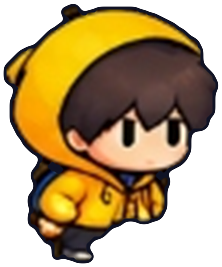
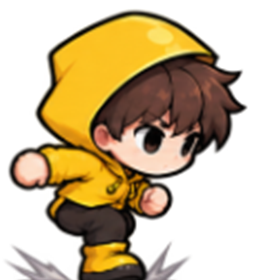
Replace Raincoat Boy with new crisp 8-frame running, jump, fall, and slide sprites

diff --git a/index.html b/index.html
@@ -75,7 +75,7 @@
               <button id="btn-prev-char" class="bs-side-arrow left" type="button" aria-label="이전 캐릭터">◀</button>
 
               <button id="btn-home-char-info" class="bs-podium-btn" type="button" title="캐릭터 능력 및 스킨 보기">
-                <img id="home-hero-img" src="assets/chars/yellow_run_0.png?v=20261121hd9" alt="선택 캐릭터" class="bs-hero-img running-hero" />
+                <img id="home-hero-img" src="assets/chars/yellow_run_0.png?v=20261121hd16" alt="선택 캐릭터" class="bs-hero-img running-hero" />
                 <span class="bs-run-dust d1" aria-hidden="true"></span>
                 <span class="bs-run-dust d2" aria-hidden="true"></span>
                 <div class="bs-podium-ring">
@@ -91,7 +91,7 @@
           <div class="bs-home-actions">
             <button id="btn-home-brawlers" class="bs-brawler-btn" type="button" aria-label="캐릭터 선택">
               <span class="bs-btn-inner">
-                <img id="home-brawler-mini" src="assets/chars/port_yellow.png?v=20261121hd9" alt="" class="bs-mini-avatar" />
+                <img id="home-brawler-mini" src="assets/chars/port_yellow.png?v=20261121hd16" alt="" class="bs-mini-avatar" />
                 <span class="bs-brawler-txt">
                   <span class="bs-brawler-lbl">캐릭터</span>
                   <span id="home-brawler-count" class="bs-brawler-cnt">1 / 5</span>
@@ -184,7 +184,7 @@
 
         <div class="rank-my-card">
           <div class="rank-my-top">
-            <img id="rank-my-avatar" src="assets/chars/port_yellow.png?v=20261121hd9" alt="내 캐릭터" class="rank-my-img" />
+            <img id="rank-my-avatar" src="assets/chars/port_yellow.png?v=20261121hd16" alt="내 캐릭터" class="rank-my-img" />
             <div class="rank-my-meta">
               <div class="rank-my-title">내 현재 순위 <strong id="rank-my-pos">-위</strong></div>
               <div class="rank-my-sub" id="rank-my-score-line">최고 점수 0점 · 최장 거리 0m</div>
@@ -336,7 +336,7 @@
             <span id="detail-char-lv" class="brawl-power-pill">POWER Lv.1 / 5</span>
             <span id="detail-equipped-pill" class="brawl-equipped-pill hidden">장착 중</span>
             <button id="btn-detail-prev" class="brawl-nav-arrow left" type="button" aria-label="이전 캐릭터">◀</button>
-            <img id="detail-char-img" src="assets/chars/port_yellow.png?v=20261121hd9" alt="캐릭터" class="brawl-hero-img" />
+            <img id="detail-char-img" src="assets/chars/port_yellow.png?v=20261121hd16" alt="캐릭터" class="brawl-hero-img" />
             <button id="btn-detail-next" class="brawl-nav-arrow right" type="button" aria-label="다음 캐릭터">▶</button>
           </div>
 
@@ -394,7 +394,7 @@
       <div id="run-hud">
         <div class="run-hud-row">
           <div class="run-portrait-box">
-            <img id="run-portrait-img" src="assets/chars/port_yellow.png?v=20261121hd9" alt="캐릭터" class="run-portrait-img" />
+            <img id="run-portrait-img" src="assets/chars/port_yellow.png?v=20261121hd16" alt="캐릭터" class="run-portrait-img" />
             <span id="run-year-num" class="portrait-yr-badge">1Y</span>
           </div>
 
@@ -601,10 +601,10 @@
     <div id="global-toast" class="global-toast hidden"></div>
   </div>
 
-  <script src="js/data.js?v=20261121hd9"></script>
+  <script src="js/data.js?v=20261121hd16"></script>
   <script src="js/audio.js?v=20261121hd9"></script>
-  <script src="js/renderer.js?v=20261121hd13"></script>
-  <script src="js/game.js?v=20261121hd15"></script>
+  <script src="js/renderer.js?v=20261121hd16"></script>
+  <script src="js/game.js?v=20261121hd16"></script>
   <script>
     if ('serviceWorker' in navigator && (location.protocol === 'https:' || location.hostname === 'localhost')) {
       window.addEventListener('load', () => {

diff --git a/js/renderer.js b/js/renderer.js
@@ -10,7 +10,7 @@ window.RunRenderer = (function () {
 
   // ===================== PRELOAD ALL CHARACTER + DESIGN + WORLD SPRITES =====================
   const CHAR_SHEET_SKINS = [
-    { id: 'yellow', frames: 3 },
+    { id: 'yellow', frames: 3, runFrames: 8 },
     { id: 'blue', frames: 2 },
     { id: 'hanbok', frames: 2 },
     { id: 'skier', frames: 2 },
@@ -47,7 +47,7 @@ window.RunRenderer = (function () {
   ];
 
   const sprites = {};
-  const CHAR_ASSET_VER = '20261121hd10';
+  const CHAR_ASSET_VER = '20261121hd16';
   const CHEST_TIERS = ['wood', 'silver', 'gold', 'diamond'];
 
   CHEST_TIERS.forEach((tier) => {
@@ -61,7 +61,8 @@ window.RunRenderer = (function () {
 
   CHAR_SHEET_SKINS.forEach((sk) => {
     CHAR_ANIM_STATES.forEach((st) => {
-      for (let f = 0; f < sk.frames; f++) {
+      const fCount = (st === 'run' && sk.runFrames) ? sk.runFrames : sk.frames;
+      for (let f = 0; f < fCount; f++) {
         const key = `${sk.id}_${st}_${f}`;
         const img = new Image();
         img.src = `assets/chars/${key}.png?v=${CHAR_ASSET_VER}`;
@@ -605,8 +606,9 @@ window.RunRenderer = (function () {
       return getSprite(`${skin}_${state}_${frame}`) || getSprite(`${skin}_${state}_0`);
     }
     if (opts.running) {
-      const fps = n >= 3 ? 10 : 8.5;
-      const frame = Math.floor(t * fps) % n;
+      const rn = (!customSkin && charDef.runFrames) ? charDef.runFrames : n;
+      const fps = rn >= 6 ? 13 : (rn >= 3 ? 10 : 8.5);
+      const frame = Math.floor(t * fps) % rn;
       return getSprite(`${skin}_run_${frame}`) || getSprite(`${skin}_run_0`);
     }
     const idleFrame = Math.floor(t * 3.5) % n;

diff --git a/js/game.js b/js/game.js
@@ -24,7 +24,7 @@
     return `${utc.getUTCFullYear()}-W${String(weekNo).padStart(2, '0')}`;
   }
 
-  const ASSET_VER = '20261121hd9';
+  const ASSET_VER = '20261121hd16';
 
   function haptic(ms = 10) {
     if (typeof navigator !== 'undefined' && navigator.vibrate) {
@@ -391,7 +391,7 @@
     if (skinDef && skinDef.customAnimSkin) {
       return { skin: skinDef.customAnimSkin, frames: skinDef.customAnimFrames || 4 };
     }
-    return { skin: charDef.animSkin || 'yellow', frames: charDef.animFrames || 2 };
+    return { skin: charDef.animSkin || 'yellow', frames: charDef.runFrames || charDef.animFrames || 2 };
   }
 
   function getTotalBagChests() {
@@ -1245,7 +1245,7 @@
     const ch = DATA.CHARACTERS[previewCharIdx] || DATA.CHARACTERS[0];
     const skin = getEquippedSkin(ch.id);
     const anim = getCharAnimSpec(ch, skin);
-    const fps = anim.frames >= 3 ? 9.5 : 7.5;
+    const fps = anim.frames >= 6 ? 13 : (anim.frames >= 3 ? 9.5 : 7.5);
     const frame = Math.floor(t * fps) % anim.frames;
     const src = `assets/chars/${anim.skin}_run_${frame}.png?v=${ASSET_VER}`;
     if (src !== lastHomeHeroSrc) {

diff --git a/js/data.js b/js/data.js
@@ -88,7 +88,8 @@ window.RUN_DATA = (function () {
       spriteKey: 'yellow_idle_0',
       animSkin: 'yellow',
       animFrames: 3,
-      avatar: 'assets/chars/port_yellow.png?v=20261121hd9',
+      runFrames: 8,
+      avatar: 'assets/chars/port_yellow.png?v=20261121hd16',
       auraType: 'raincoat',
       price: 0,
       baseHp: 5,

diff --git a/sw.js b/sw.js
@@ -1,4 +1,4 @@
-const CACHE_NAME = 'k-weather-survival-v20261121hd15';
+const CACHE_NAME = 'k-weather-survival-v20261121hd16';
 const CORE_ASSETS = [
   './',
   './index.html',
